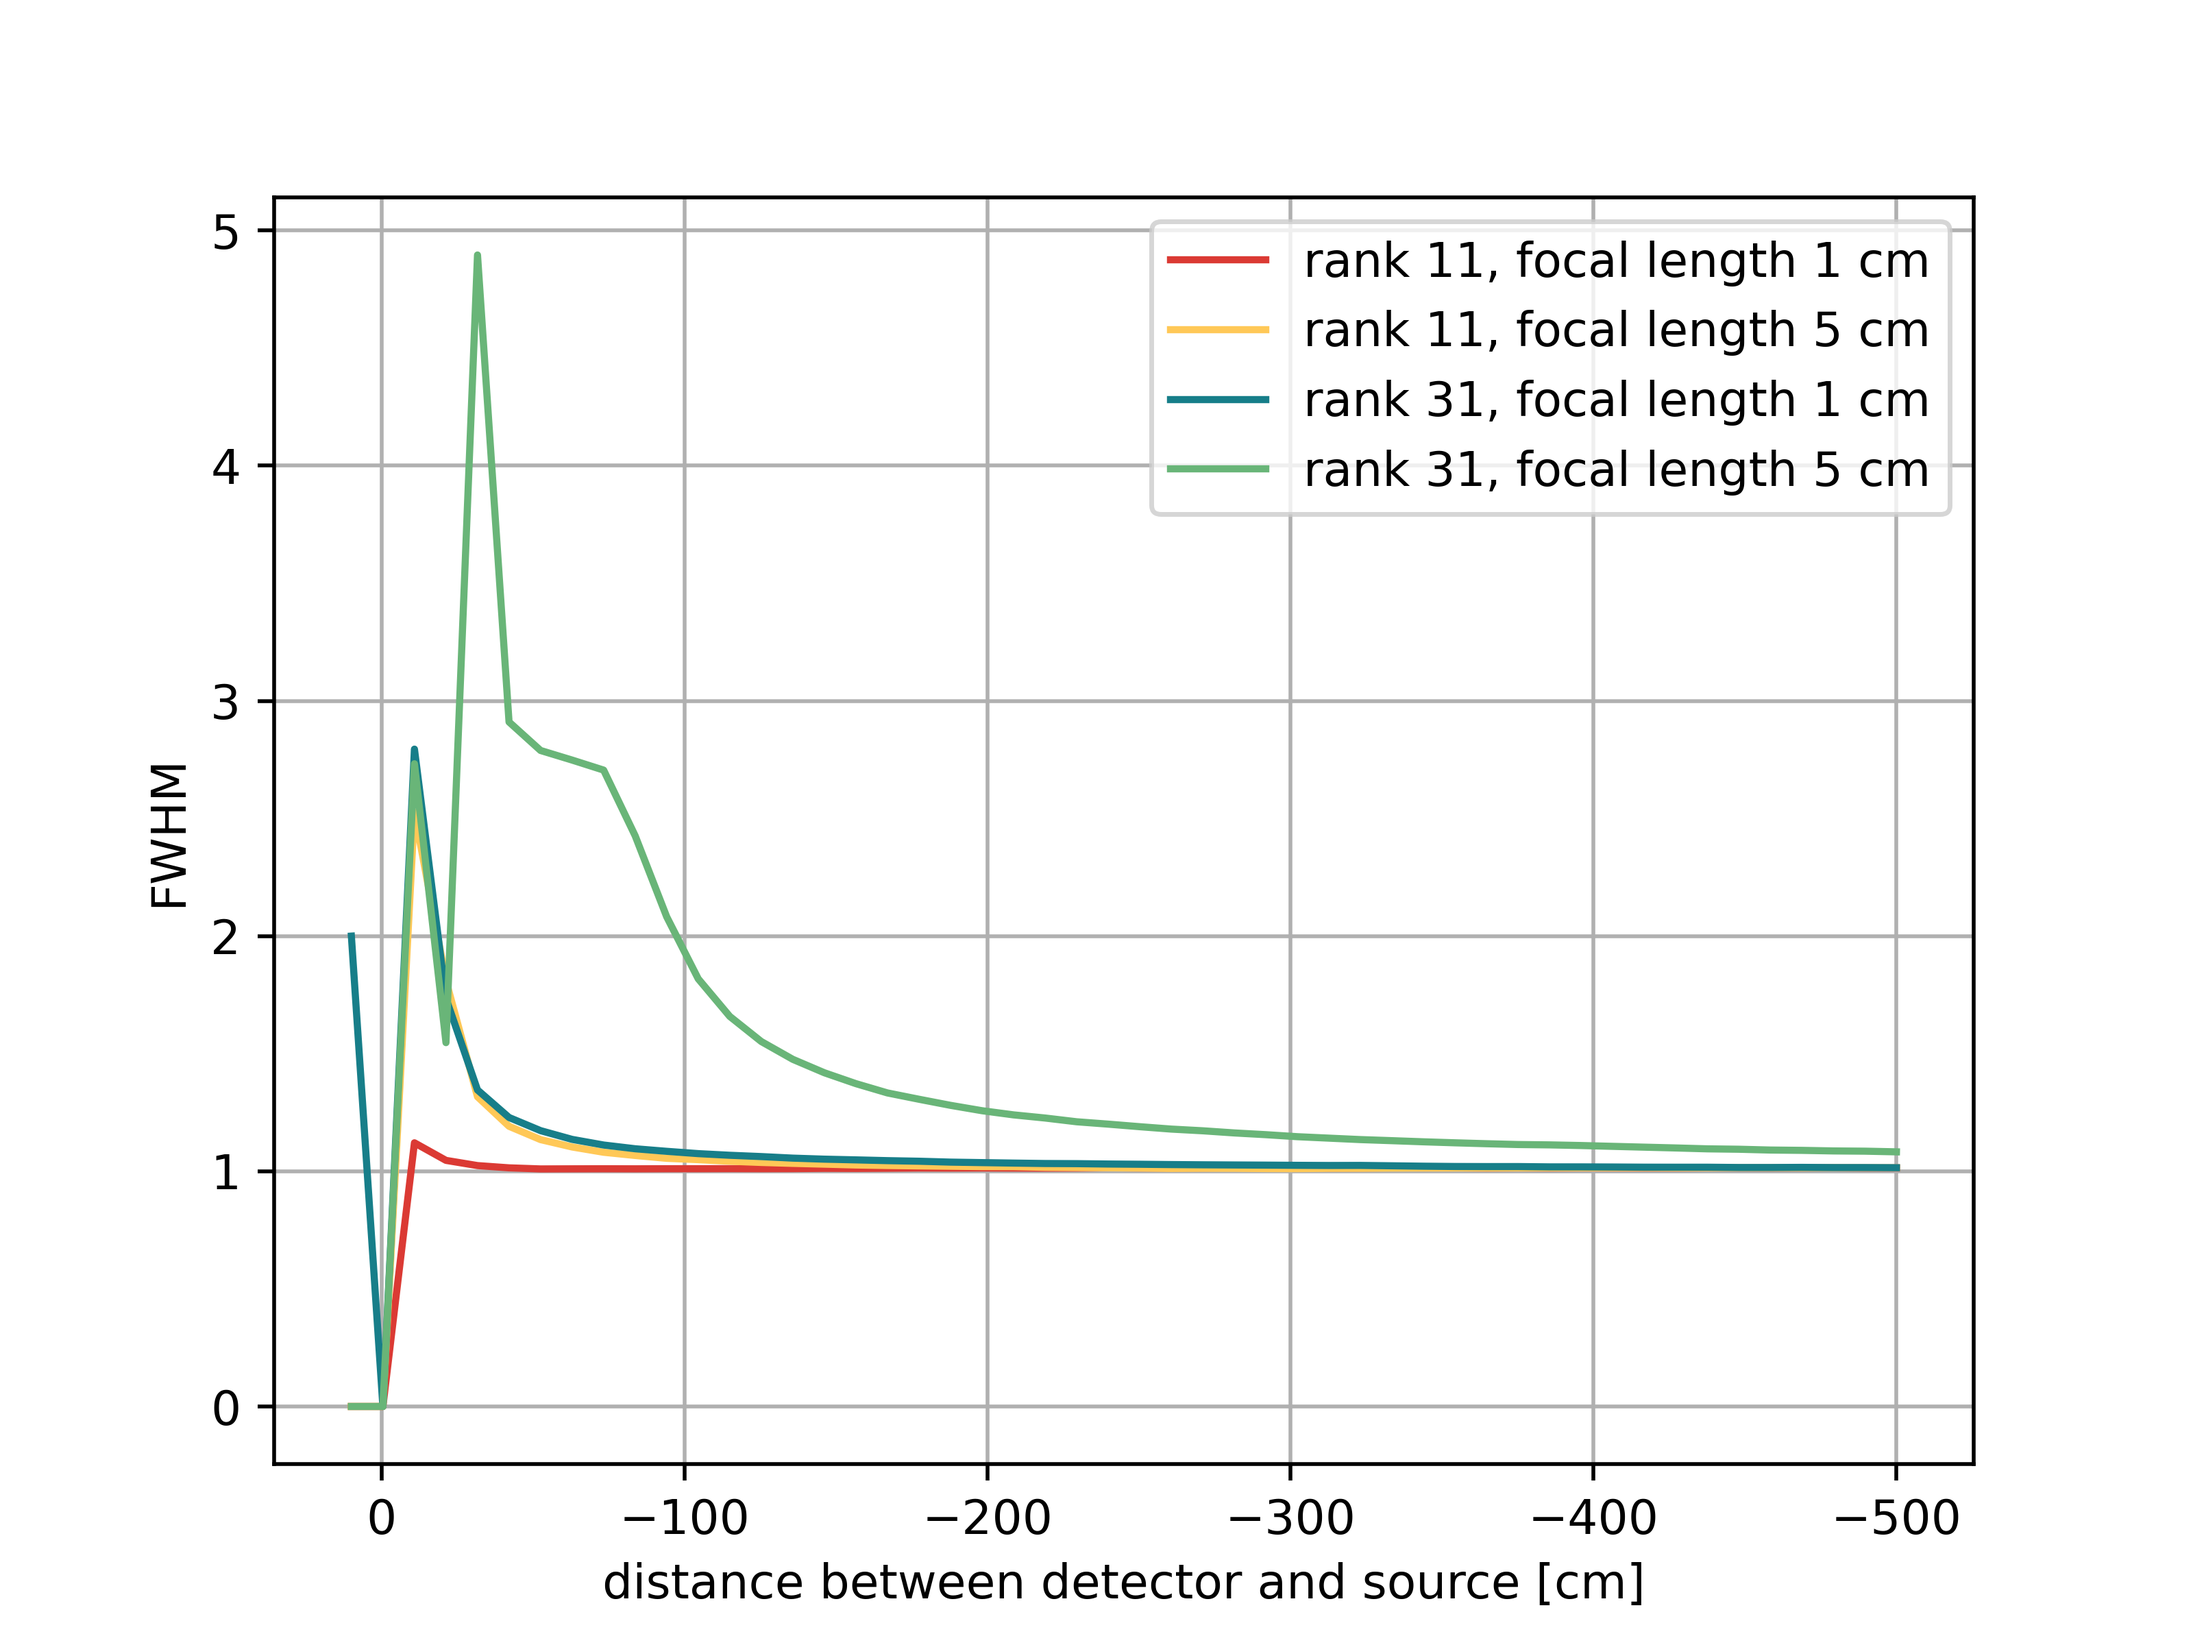
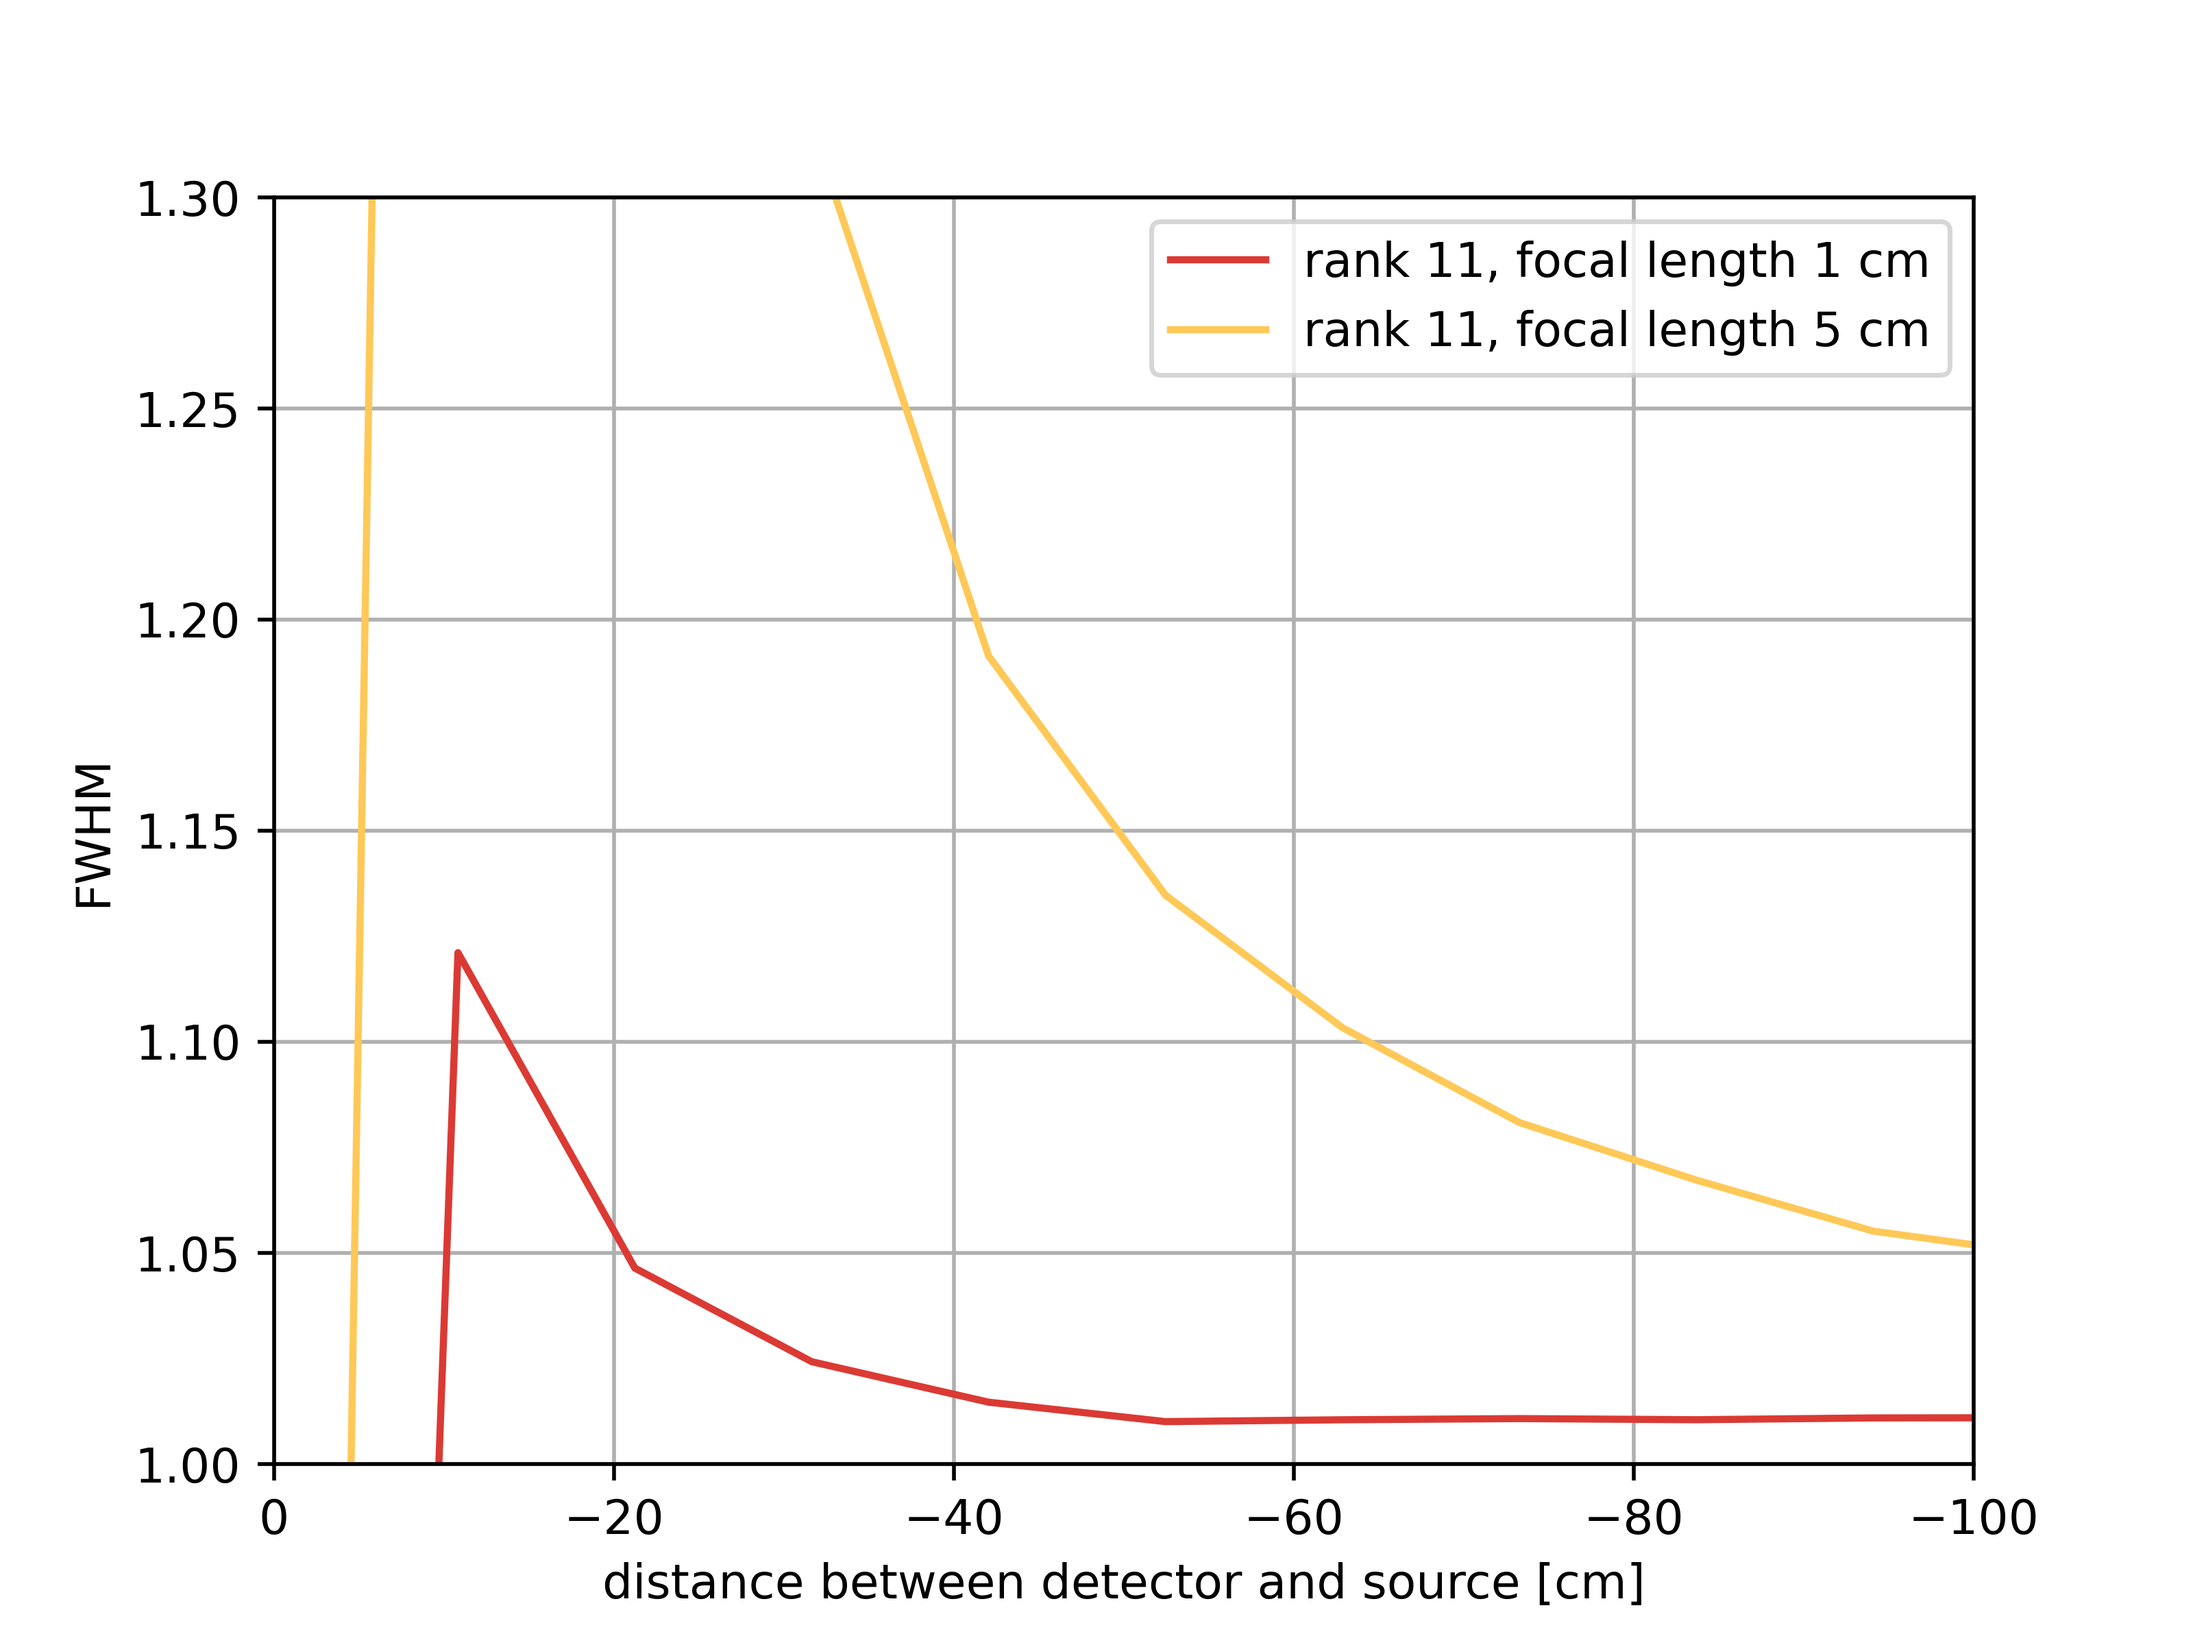
plotting stuff for experiment data

diff --git a/plotting/plot_fwhm_experiment.py b/plotting/plot_fwhm_experiment.py
@@ -1,0 +1,157 @@
+import numpy as np
+
+import sys
+
+sys.path.insert(1, "../detector_analysis")
+
+from experiment_engine import ExperimentEngine
+from hits import Hits
+from deconvolution import Deconvolution
+
+from clustering import find_clusters, remove_clusters
+from resample import resample_data
+import matplotlib.pyplot as plt
+
+from experiment_constants import *
+
+from scipy.signal import find_peaks, peak_widths
+
+# explicit function to normalize array
+def normalize(arr, t_min, t_max):
+    norm_arr = []
+    diff = t_max - t_min
+    diff_arr = max(arr) - min(arr)
+    for i in arr:
+        temp = (((i - min(arr)) * diff) / diff_arr) + t_min
+        norm_arr.append(temp)
+    return norm_arr
+
+
+# -------------------- set experiment set up ----------------------
+isotope = "Cd109"
+frames = 250
+exposure_s = 1.0
+source_detector_cm = 44.66
+mask_detector_cm = 5
+# mask_detector_cms = [2, 2.88, 4, 5]
+
+offset_deg1s = [0, 2.5, 5, 7.5, 10, 12.5, 15, 17.5]
+offset_deg1s = [0, 1, 2, 3, 4, 5, 6, 7]
+
+# offset_deg1 = 0
+
+n_files = 30
+
+min_energy_keV = 19
+max_energy_keV = 27
+
+fig, ax = plt.subplots(1, 1, figsize=(10, 6))
+# colors = ["#04e762", "#f5b700", "#dc0073", "#008bf8", "#89FC00"]
+colors = [
+    "03071e",
+    "370617",
+    "6a040f",
+    "9d0208",
+    "d00000",
+    "dc2f02",
+    "e85d04",
+    "f48c06",
+    "faa307",
+    "ffba08",
+]
+colors = ["#%s" % color for color in colors]
+cc = 0
+# for offset_deg1s in both_offset:
+
+for offset_deg1, color in zip(offset_deg1s, colors):
+    raw_data = np.zeros((n_pixels, n_pixels))
+    cleaned_data_all = np.zeros_like(raw_data)
+    background_data = np.zeros_like(raw_data)
+    if offset_deg1 == 0:
+        data_folder = "fwhm/%dcm/" % round(mask_detector_cm)
+    else:
+        data_folder = "%dcm/%dpt%ddeg" % (
+            mask_detector_cm,
+            offset_deg1,
+            10 * (offset_deg1 % 1),
+        )
+    print("reading data from ", data_folder)
+
+    my_experiment_engine = ExperimentEngine(
+        isotope,
+        frames,
+        exposure_s,
+        source_detector_cm,
+        mask_detector_cm,
+        data_folder,
+        n_files,
+    )
+
+    # ---------------------- get data -------------------------------
+    for i in range(n_files):
+        my_hits = Hits(
+            experiment=True, experiment_engine=my_experiment_engine, file_count=i
+        )
+        raw_data += my_hits.detector_hits
+
+        region, clusters = find_clusters(my_hits)
+        cleaned_data, background_clusters = remove_clusters(
+            my_hits, region, clusters, min_energy_keV, max_energy_keV
+        )
+
+        cleaned_data_all += cleaned_data
+        background_data += background_clusters
+
+        print(
+            "READ AND CLEANED FILE %d" % i,
+            "WITH ",
+            len(np.argwhere(cleaned_data > 0)),
+            "COUNTS",
+        )
+
+    # ---------------------- analyze -------------------------------
+    trim = 7
+    resample_n_pixels = 121
+
+    resampled_data = resample_data(
+        n_pixels=n_pixels,
+        trim=trim,
+        resample_n_pixels=resample_n_pixels,
+        data=cleaned_data_all,
+    )
+
+    # set up deconvolution
+    deconvolver = Deconvolution(experiment_data=resampled_data)
+    deconvolver.deconvolve(
+        experiment=True,
+        downsample=int((n_pixels - 2 * trim) / resample_n_pixels),
+        trim=trim,
+    )
+    signal = np.sum(deconvolver.deconvolved_image, axis=0)
+    # subtract background
+    signal = signal - np.average(signal[int(2 * len(signal) // 3) :])
+    # signal = normalize(signal, 0, 450000)
+    plt.plot(signal, label="%.1f" % offset_deg1, color=color)
+
+    # just find the width of the center peak
+    peaks, _ = find_peaks(signal)
+    results_half = peak_widths(signal, peaks, rel_height=0.5)
+    fwhm = results_half[0]
+    print(max(fwhm))
+    cc = +1
+
+# ---------------------- finally plot it!----------------------
+plot_fname = my_hits.fname[:-6] + "offset-signal"
+
+"""
+plot_fname = my_hits.fname[:-6] + "%dpt%ddeg-%dpt%ddeg-offset-signal" % (
+    offset_deg1s[0],
+    10 * (offset_deg1s[0] % 1),
+    offset_deg1s[1],
+    10 * (offset_deg1s[1] % 1),
+)
+"""
+plt.legend()
+plt.xlabel("pixel #")
+plt.ylabel("signal over background")
+plt.savefig("../experiment_results/%s.png" % plot_fname, dpi=500, bbox_inches="tight")

diff --git a/plotting/plot_experiment_data.py b/plotting/plot_experiment_data.py
@@ -1,0 +1,67 @@
+import matplotlib.pyplot as plt
+import matplotlib.ticker as mtick
+from numpy.typing import NDArray
+
+from plotting.plot_settings import *
+
+def plot_four_subplots(
+    raw_data: NDArray[np.uint16] = None,
+    cleaned_data: NDArray[np.uint16] = None,
+    resampled_data: NDArray[np.uint16] = None,
+    deconvolved_image: NDArray[np.uint16] = None,
+    vmins: list = [0, 0],
+    vmaxes: list = [100, 1e5],
+    save_name: str = 'plot_subplots'
+):
+
+    fig, ax = plt.subplots(2, 2, figsize=(10, 6))
+    image = ax[0, 0].imshow(raw_data, cmap=cmap, vmin=vmins[0], vmax=vmaxes[0])
+    image = ax[0, 1].imshow(cleaned_data, cmap=cmap, vmin=vmins[0], vmax=vmaxes[0])
+    image1 = ax[1, 0].imshow(resampled_data, cmap=cmap, vmin=vmins[0], vmax=vmaxes[0])
+
+    image = ax[1, 1].imshow(deconvolved_image, cmap=cmap, vmin=vmins[1], vmax=vmaxes[1])
+
+    ax[0, 0].set_title("Data")
+    ax[0, 1].set_title("Background Removed")
+    ax[1, 0].set_title("Resampled")
+    ax[1, 1].set_title("Deconvolved")
+
+    ax[1, 1].set_xlabel("pixel #")
+    ax[1, 0].set_xlabel("pixel #")
+    ax[1, 0].set_ylabel("pixel #")
+    ax[0, 0].set_ylabel("pixel #")
+
+    # using padding
+    fig.tight_layout()
+
+    # damn colorbar
+    fig.subplots_adjust(right=0.55, wspace=0.005, hspace=0.2)
+    cbar_ax = fig.add_axes([0.55, 0.09, 0.04, 0.85])
+    cbar = fig.colorbar(image1, cax=cbar_ax)
+    pos = cbar.ax.get_position()
+    cbar.ax.set_aspect("auto")
+    ax2 = cbar.ax.twinx()
+    ax2.set_ylim([vmins[1], vmaxes[1]])
+    pos.x0 += 0.02
+    cbar.ax.set_position(pos)
+    ax2.set_position(pos)
+
+    cbar.ax.yaxis.set_major_locator(plt.MaxNLocator(6))
+    ax2.yaxis.set_major_locator(plt.MaxNLocator(6))
+
+    yticks_counts = [
+        str(int(float(item.get_text()))) for item in cbar.ax.get_yticklabels()
+    ]
+    yticks_signal = [
+        "{:.1e}".format(int(float(item.get_text()))) for item in ax2.get_yticklabels()
+    ]
+    yticks_signal[0] = "0"
+    cbar.ax.set_yticklabels(yticks_counts, fontsize=10)
+    ax2.set_yticklabels(yticks_signal, fontsize=10)
+
+    # plt.text(-1.5, 37,'counts')
+    # plt.text(1.3,0,'signal')
+    # plt.text(-17,30,'%s' % version, fontsize=16)
+
+    plt.savefig("../experiment_results/%s.png" % save_name, dpi=500, bbox_inches="tight")
+    plt.clf()

diff --git a/plotting/near_far_field_comparison.py b/plotting/near_far_field_comparison.py
@@ -10,7 +10,7 @@ and the detector to determine near and far field regimes for testing
 n_particles = 1000000
 energy_type = "Mono"
 energy_level = 500  # keV
-ranks = [11,31]
+ranks = [11]
 distances = [1,5]
 source_distances = np.linspace(-500,10,50)
 
@@ -22,7 +22,7 @@ ci=0
 # simulated two ranks and two distances
 for rank in ranks:
     for dist in distances:
-        file1 = open("../results/parameter_sweeps/timepix_sim/fwhm_%d_%d_%d_%s_%d.txt"
+        file1 = open("../results/parameter_sweeps/timepix_sim/fwhm-test/fwhm_%d_%d_%d_%s_%d.txt"
             % (rank, dist, n_particles, energy_type, energy_level), 'r')
         Lines = file1.readlines()
         Lines = [line.strip('\n') for line in Lines]
@@ -31,11 +31,15 @@ for rank in ranks:
         ci+=1
 
 # plotting clean up
-plt.gca().invert_xaxis()
+
 plt.legend()
 ax.grid()
 plt.xlabel('distance between detector and source [cm]')
 plt.ylabel('FWHM')
+plt.xlim([-100,0])
+plt.ylim([1,1.3])
+
+plt.gca().invert_xaxis()
 
 # save it
 plt.savefig('plotting/near-far-field-comp.png',dpi=500)
